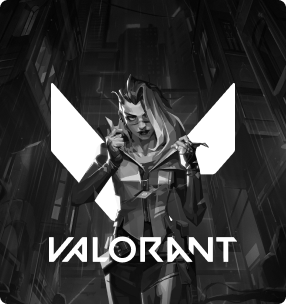
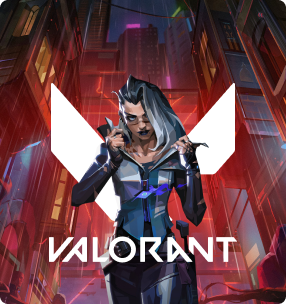
add grayscale on slider img

diff --git a/index.html b/index.html
@@ -158,7 +158,18 @@
                     <img src="./assets/image/png/coming-soon-img.png" alt="coming-soon-img"
                         class="position-absolute coming-soon-img">
                     <div class="d-flex align-items-center gap-12 mt-4">
-                        <img src="./assets/image/svg/valorant-svg.svg" alt="valorant-svg">
+                        <svg class="section-2-svg" width="40" height="40" viewBox="0 0 40 40" fill="none"
+                            xmlns="http://www.w3.org/2000/svg">
+                            <path
+                                d="M0 8C0 3.58172 3.58172 0 8 0H32C36.4183 0 40 3.58172 40 8V32C40 36.4183 36.4183 40 32 40H8C3.58172 40 0 36.4183 0 32V8Z"
+                                fill="black" />
+                            <path
+                                d="M7.28103 10.4234C7.43861 10.3376 7.53903 10.5109 7.62404 10.6022C13.0938 16.8496 18.5701 23.0924 24.0394 29.3398C24.1518 29.4288 24.0668 29.6189 23.9151 29.5985C21.2963 29.6012 18.677 29.5994 16.0582 29.5994C15.8484 29.6017 15.6475 29.5064 15.5188 29.357C12.8015 26.2576 10.0858 23.1569 7.36852 20.057C7.25319 19.9317 7.19353 19.7697 7.20099 19.6068C7.20099 16.6122 7.20199 13.6172 7.2 10.6226C7.20149 10.5518 7.19851 10.4601 7.28103 10.4234Z"
+                                fill="#CC3944" />
+                            <path
+                                d="M32.5784 10.4088C32.6903 10.3702 32.8136 10.4647 32.7972 10.5718C32.8011 13.5677 32.7967 16.5636 32.7991 19.5596C32.8066 19.7293 32.7658 19.9049 32.645 20.0384C31.8193 20.9815 30.9926 21.9242 30.1669 22.8668C30.0292 23.0302 29.804 23.1205 29.5788 23.1101C26.9774 23.1078 24.3755 23.1115 21.774 23.1083C21.6204 23.1301 21.5329 22.9408 21.6463 22.8496C25.2539 18.729 28.8644 14.6098 32.474 10.4901C32.5014 10.4547 32.5362 10.4274 32.5784 10.4088Z"
+                                fill="#CC3944" />
+                        </svg>
                         <p class="font-primary fw-bold fs-6 lh-16 text-white mb-0">VALORANT</p>
                     </div>
                 </div>
@@ -174,20 +185,40 @@
                     </div>
                 </div>
                 <div class="card-1">
-                    <img src="./assets/image/png/slider-img-3.png" alt="slider-img-3" class="w-100 slider-img">
-                    <img src="./assets/image/png/coming-soon-img.png" alt="coming-soon-img"
-                        class="position-absolute coming-soon-img">
+                    <div class="img-parent">
+                        <img src="./assets/image/png/slider-img-3.png" alt="slider-img-3" class="w-100 slider-img">
+                        <img src="./assets/image/png/coming-soon-img.png" alt="coming-soon-img"
+                            class="position-absolute coming-soon-img">
+                    </div>
                     <div class="d-flex align-items-center gap-12 mt-4">
-                        <img src="./assets/image/svg/fortnite-svg.svg" alt="fortnite-svg">
+                        <svg class="section-2-svg" width="40" height="40" viewBox="0 0 40 40" fill="none"
+                            xmlns="http://www.w3.org/2000/svg">
+                            <path
+                                d="M0 8C0 3.58172 3.58172 0 8 0H32C36.4183 0 40 3.58172 40 8V32C40 36.4183 36.4183 40 32 40H8C3.58172 40 0 36.4183 0 32V8Z"
+                                fill="#312151" />
+                            <path
+                                d="M19.4953 7.19995C19.5445 7.22757 19.5981 7.21679 19.6499 7.21679C20.7192 7.21731 21.7884 7.21389 22.8576 7.21836C23.4181 7.22073 23.9789 7.2423 24.5394 7.2444C24.8677 7.24572 25.1957 7.2231 25.5239 7.21705C25.7191 7.21337 25.7465 7.23809 25.7309 7.42563C25.6886 7.9417 25.7249 8.45855 25.7041 8.97462C25.6536 10.2309 25.6852 11.4874 25.6747 12.7439C25.6741 12.8004 25.6676 12.8572 25.6597 12.9135C25.6494 12.9879 25.6021 13.0198 25.5297 13.0106C25.1157 12.9582 24.6991 12.9672 24.2837 12.9669C23.4557 12.9661 22.6277 12.9808 21.7999 12.9922C21.5853 12.995 21.3709 13.0074 21.1566 13.0182C20.9824 13.0271 20.9682 13.0424 20.9682 13.2102C20.968 14.3925 20.9677 15.5749 20.9682 16.7569C20.9682 16.9621 20.9748 16.9631 21.1858 16.9673C21.8825 16.9813 22.5793 16.9579 23.2745 16.9308C23.6801 16.915 24.0886 16.9221 24.4929 16.8684C24.5678 16.8584 24.5989 16.8932 24.5999 16.9634C24.601 17.0378 24.6015 17.1123 24.6018 17.1867C24.602 17.7735 24.6018 18.3601 24.6028 18.9469C24.6041 19.8312 24.5092 20.7124 24.5173 21.5972C24.5189 21.7724 24.5202 21.9465 24.5439 22.1209C24.5702 22.3161 24.5147 22.3621 24.325 22.3482C23.9976 22.3237 23.6704 22.3042 23.341 22.3297C23.1233 22.3466 22.9039 22.3342 22.6845 22.325C22.2773 22.3077 21.8704 22.3313 21.4638 22.3555C21.3896 22.36 21.3147 22.3708 21.241 22.3658C21.1382 22.3589 21.1037 22.3966 21.1042 22.5007C21.1069 23.0042 21.0874 23.5084 21.104 24.0113C21.1395 25.0837 21.1034 26.1568 21.1379 27.2287C21.165 28.0738 21.13 28.9189 21.1653 29.763C21.1876 30.2964 21.1539 30.8309 21.2073 31.3635C21.2273 31.5629 21.1845 31.6132 20.9759 31.6573C19.46 31.9782 17.9437 32.297 16.4278 32.6169C16.1795 32.6692 15.9307 32.7205 15.6837 32.7784C15.4614 32.8305 15.4128 32.7979 15.4128 32.5732C15.4117 31.3078 15.4286 30.0421 15.4065 28.7769C15.3731 26.8591 15.4175 24.9411 15.3794 23.0239C15.3604 22.078 15.3888 21.1322 15.3538 20.1874C15.3228 19.3509 15.3588 18.5147 15.3299 17.6791C15.2984 16.773 15.3328 15.8663 15.3005 14.9609C15.276 14.2778 15.3068 13.5948 15.277 12.9127C15.2471 12.2209 15.2805 11.5289 15.2486 10.8385C15.2205 10.2256 15.2536 9.61194 15.2205 9.00066C15.1929 8.48354 15.211 7.96826 15.2008 7.45246C15.1966 7.22941 15.2005 7.22967 15.4217 7.21494C15.4475 7.2131 15.473 7.20521 15.4985 7.19995H19.4953Z"
+                                fill="white" />
+                        </svg>
                         <p class="font-primary fw-bold fs-6 lh-16 text-white mb-0">FORTNITE</p>
                     </div>
                 </div>
                 <div class="card-1">
-                    <img src="./assets/image/png/slider-img-4.png" alt="slider-img-4" class="w-100 slider-img">
-                    <img src="./assets/image/png/coming-soon-img.png" alt="coming-soon-img"
-                        class="position-absolute coming-soon-img">
+                    <div class="img-parent">
+                        <img src="./assets/image/png/slider-img-4.png" alt="slider-img-4" class="w-100 slider-img">
+                        <img src="./assets/image/png/coming-soon-img.png" alt="coming-soon-img"
+                            class="position-absolute coming-soon-img">
+                    </div>
                     <div class="d-flex align-items-center gap-12 mt-4">
-                        <img src="./assets/image/svg/rocket-league.svg" alt="rocket-league.svg">
+                        <svg class="section-2-svg" width="40" height="40" viewBox="0 0 40 40" fill="none"
+                            xmlns="http://www.w3.org/2000/svg">
+                            <path
+                                d="M0 8C0 3.58172 3.58172 0 8 0H32C36.4183 0 40 3.58172 40 8V32C40 36.4183 36.4183 40 32 40H8C3.58172 40 0 36.4183 0 32V8Z"
+                                fill="#536CEA" />
+                            <path
+                                d="M19.068 18.3411C19.068 18.3411 19.7405 18.392 20.3096 19.1049L19.9992 19.1558L19.844 19.1049C19.844 19.1049 19.3784 18.5447 19.068 18.3411ZM18.0333 21.4981L17.7229 20.7343H17.6194L17.1021 21.3453C17.4642 21.6508 18.0333 21.4981 18.0333 21.4981ZM22.7928 17.0172L22.5341 17.119L22.8445 17.6791L23.8792 18.0356C23.4653 17.1699 22.7928 17.0172 22.7928 17.0172ZM19.844 18.0865C20.1544 18.4429 20.4648 18.9521 20.4648 18.9521C20.9821 18.4429 22.0685 18.2392 23.4653 18.2902C21.4994 17.8828 19.844 18.0865 19.844 18.0865ZM17.9298 17.3227C17.9298 17.3227 18.4989 17.3227 19.2749 17.4754C18.7576 17.119 17.9298 16.9153 17.9298 16.9153V17.3227ZM22.6893 20.1232L21.8098 20.887L22.4824 21.0907L23.1549 20.3778L22.7928 20.2251L22.6893 20.1232ZM16.8434 16.1006C16.8434 16.1006 17.2056 16.3043 17.2573 16.3043C17.309 16.3043 18.0333 16.5589 18.3437 16.6607C18.6024 16.7626 18.7576 16.6607 18.8093 16.6607C18.861 16.6607 19.7405 16.1516 19.7405 16.1516C18.9645 15.846 18.2402 15.6424 18.2402 15.6424C18.1885 15.6424 16.8434 16.1006 16.8434 16.1006ZM22.1202 16.5589C22.0685 16.4571 21.965 16.4571 21.3442 16.3552C20.7752 16.3043 20.2578 16.2534 20.1544 16.2534C20.0509 16.2534 19.9992 16.3043 19.9992 16.3043C19.9992 16.3043 19.6888 16.508 19.4301 16.6607C19.1714 16.8135 19.1197 16.8644 19.068 16.9663C19.0162 17.0172 19.1714 17.2209 19.1714 17.2209L19.5853 17.73C19.637 17.73 19.7922 17.8319 19.7922 17.8319C19.7922 17.8319 20.62 17.781 21.1373 17.73H22.4824C22.5341 17.73 22.4824 17.5264 22.3789 17.2718C22.2754 17.0681 22.1202 16.5589 22.1202 16.5589ZM17.2056 17.119C17.2056 17.119 17.2573 17.119 17.3608 17.1699C17.4642 17.1699 17.516 17.0681 17.516 16.9663C17.516 16.8135 17.3608 16.7626 17.3608 16.7626H17.2573L17.1021 16.8135L17.0503 17.1699H17.1021L17.2056 17.119C17.1538 17.0172 17.1538 16.9663 17.1538 16.8644C17.1538 16.8135 17.2573 16.7117 17.309 16.7117C17.309 16.7117 17.4125 16.7117 17.3608 16.9153C17.3608 17.119 17.2056 17.119 17.2056 17.119ZM25.9485 21.1416L25.5347 21.7017V21.7526H26.1037C26.2072 21.3962 25.9485 21.1416 25.9485 21.1416ZM15.6018 18.4938H15.4983L15.2397 18.4429C14.981 18.392 15.0845 17.9337 15.0845 17.9337L14.7741 18.0356C14.6706 17.8319 14.205 17.2718 14.205 17.2718L14.1015 17.6791C14.1533 17.73 14.4119 18.1374 14.4637 18.2392L14.3085 18.392C14.3085 18.392 14.2567 18.4938 14.2567 18.5447C14.2567 18.5957 14.205 18.6466 14.205 18.6466L13.9981 18.7484H13.9463L13.2221 18.1883V18.5957H13.2738C13.3255 18.6975 13.429 18.9012 13.6877 19.003C13.8946 19.1049 14.1533 19.1049 14.2567 19.0539C14.3602 19.1049 14.4119 19.1049 14.4637 19.1558C14.6706 19.2576 14.7223 19.2067 14.7223 19.2067L15.0327 19.1049H15.0845L15.1362 19.0539L15.2397 18.8503C15.2397 18.8503 15.757 18.9012 15.9639 18.9012C16.1709 18.5957 16.8434 18.1374 17.309 18.0865C17.7746 18.0865 18.5506 18.1883 19.1714 18.7993C19.7405 19.4104 19.5853 20.2251 19.5853 20.2251L20.7234 20.5815L20.2061 20.2251C19.7922 19.2067 18.8093 18.2902 18.8093 18.2902C18.8093 18.2902 18.5506 18.2392 18.3954 18.2392C18.2402 18.1883 18.1368 18.0865 18.1368 18.0865C18.1368 18.0865 18.085 18.0356 17.9816 17.8828L17.8781 17.6791C17.8781 17.6791 17.7746 17.5773 17.6194 17.4754C17.4642 17.3736 16.8951 17.3227 16.5847 17.2718C16.2743 17.2209 16.2743 17.2718 16.2743 17.2718C17.1538 17.4754 17.4125 17.5264 17.4642 17.5773C17.4642 17.5773 17.516 17.6791 17.5677 17.73C16.8434 17.5773 16.1709 17.6791 16.0157 17.73C16.1191 17.8828 16.1191 18.0865 16.0157 18.2392C15.9122 18.3411 15.6018 18.4938 15.6018 18.4938ZM25.4312 22.16L25.5864 22.8219C25.5864 22.8219 25.7416 22.6692 25.8968 22.4655C26.052 22.2618 26.1037 22.0582 26.1037 22.0582L25.4829 22.1091L25.4312 22.16ZM12.9634 17.5264L12.9117 18.0865H13.2221L13.2738 17.73V17.9337H13.3255V17.6282H13.2738V17.4245L13.7394 17.6791L13.7911 17.781L13.8946 17.8828H13.9981L14.0498 17.8319V17.781C13.7394 17.781 13.7394 17.6282 13.7394 17.6282C13.7394 17.6282 13.7911 17.2718 13.8429 17.1699C13.8946 17.0681 14.1015 17.119 14.1015 17.119L14.0498 17.0681H13.9463C13.8429 17.0172 13.5325 16.8135 13.429 16.7626V16.7117L13.4807 16.6607V16.4571H13.5325C13.5325 16.4062 13.5842 16.4062 13.5842 16.3552C13.6877 16.3552 14.4637 16.2025 14.4637 16.2025L13.7394 16.0497V15.9988C13.5325 15.9479 13.3773 15.897 13.2738 15.846C13.0151 16.1516 12.9117 16.5589 12.9117 16.5589C12.9117 16.5589 12.8599 17.2718 12.8599 17.3736C12.8082 17.4754 12.9634 17.5264 12.9634 17.5264ZM25.1208 21.549L25.2243 21.7017L25.276 21.6508L25.6899 21.1416V21.0907C25.4829 21.0907 25.1208 21.549 25.1208 21.549ZM23.8792 20.6324L23.5688 20.5306L22.8445 21.3453L23.3619 21.4981C23.4653 21.0907 23.8792 20.6324 23.8792 20.6324ZM24.9656 21.8036C24.7069 22.3128 24.7587 22.6692 24.7587 22.6692L25.0173 22.1091V22.0072C25.0691 22.0072 25.0173 21.9054 24.9656 21.8036ZM24.7069 18.4938C24.7069 18.4938 24.6035 18.6975 24.5517 18.7484C24.5 18.7993 24.1379 18.8503 23.9309 18.9012C23.724 19.003 23.3619 19.1558 23.2584 19.2576C23.2067 19.3085 23.2067 19.4613 23.2067 19.5122C23.2067 19.5122 23.3101 19.5631 23.3619 19.5631L22.8963 19.9705L22.9997 20.0723L24.1379 20.4288C24.3965 20.2251 24.7587 20.1742 24.7587 20.1742C24.5517 20.0723 23.6723 19.7159 23.4136 19.614C23.4136 19.614 23.2584 19.5631 23.2584 19.5122V19.3595C23.2584 19.3595 23.9309 18.8503 24.9656 18.8503L25.1208 18.5447L24.7069 18.4938ZM25.3795 22.9747L25.1725 22.3637H25.1208L24.8104 22.9238L24.8621 22.9747C25.1208 23.0765 25.3795 22.9747 25.3795 22.9747ZM17.5677 17.1699L17.7229 17.2209C17.7229 17.2209 17.8264 17.2209 17.8264 17.119V16.9153L17.6712 16.8135L17.4642 16.7626C17.516 16.8135 17.516 16.8644 17.516 16.8644H17.5677C17.5677 16.8135 17.6194 16.8135 17.6194 16.8644C17.6194 16.8644 17.7229 16.9153 17.6712 17.0681C17.7229 17.119 17.6194 17.1699 17.5677 17.1699ZM17.1021 19.9705C16.7399 20.6324 16.9986 21.0907 16.9986 21.0907L17.4642 20.4288V20.3269L17.1021 19.9705ZM13.7394 16.0497L14.3602 16.2025C14.4119 16.2025 14.7741 16.1516 14.7741 16.1516L13.7911 15.897L13.7394 16.0497ZM14.1015 15.897C14.9293 15.9988 15.0845 16.1516 15.0845 16.1516C15.0845 16.1516 15.3949 16.1006 15.5501 16.1006C15.2914 15.897 14.1533 15.5405 14.1533 15.5405C14.1533 15.5405 14.1015 15.6933 14.1015 15.897ZM15.3431 17.4754C15.1879 17.5773 15.0327 17.8828 15.0845 18.1374C15.1362 18.392 15.1879 18.392 15.3431 18.392C15.0845 18.2902 15.1362 17.8828 15.3431 17.6282C15.4983 17.4245 15.6535 17.5773 15.6535 17.5773C15.6535 17.5773 15.4983 17.3736 15.3431 17.4754ZM11.67 25.0115C10.9975 25.0115 10.2215 25.2661 10.6871 25.9789C14.5154 32.4456 18.5506 33.9732 20.2578 34.7879C21.0338 34.4315 22.2755 33.8714 23.7757 32.853C24.6552 32.2929 24.5517 31.4273 24.3448 30.8672C23.2584 28.2194 17.309 25.2151 11.67 25.0115ZM33.243 12.9437C31.691 11.8744 27.8627 9.93943 20.2578 9.93943C17.6194 9.93943 15.3949 10.194 13.6359 10.5505C14.0498 11.2124 14.2567 11.9762 14.2567 12.7909C14.2567 13.9111 13.8429 14.9295 13.1703 15.6933C13.3255 15.7442 13.5325 15.7951 13.7911 15.846L13.8946 15.5914C13.8946 15.5914 13.9981 15.5914 14.0498 15.6424C14.0498 15.3878 14.205 15.3878 14.205 15.3878C14.205 15.3878 14.205 15.3369 14.2567 15.3369C14.5154 15.3878 15.2397 15.7442 15.5501 15.897C15.8605 16.0497 15.8605 16.1006 15.8605 16.1006C15.8605 16.1006 16.5847 16.1006 16.7917 16.0497C16.9986 16.0497 17.3608 15.897 17.8781 15.7442C18.3954 15.5914 18.4989 15.5405 18.6024 15.5405C18.7058 15.5405 19.637 15.5914 20.4648 15.6933C21.2925 15.7951 22.0685 16.1006 22.2237 16.2025L22.4824 16.2534L22.5341 16.1006L22.1202 15.9479C22.1202 15.9479 22.172 15.6933 22.172 15.6424C22.172 15.5914 22.2237 15.5405 22.2754 15.5405C22.3272 15.5405 22.7928 15.6424 22.948 15.6933C23.1032 15.7442 23.6205 16.1006 23.6723 16.1006C23.724 16.1006 23.724 16.1516 23.724 16.1516C23.724 16.2534 23.6205 16.4571 23.6205 16.4571C23.6205 16.4571 23.7757 16.508 23.8275 16.5589C23.8792 16.6098 24.0344 16.7117 24.1896 16.8644C24.3448 16.9663 24.2931 17.119 24.2931 17.119L24.6552 17.4754V17.6282L25.5347 18.4938V18.5447L25.1208 18.7993C25.1208 18.7993 25.6899 18.7484 26.1037 18.9521C26.5176 19.1558 26.5693 19.2576 26.5693 19.3595C26.4659 19.4104 26.3107 19.4613 26.3107 19.4613C26.0003 19.5631 25.2243 20.0723 25.2243 20.0723V20.1232L25.6381 20.2251C26.1037 19.8177 26.9315 19.665 27.5523 19.7668C29.6734 20.1742 31.1219 21.549 31.4323 22.7201C31.4323 22.771 31.484 22.8729 31.484 22.9238C33.6051 18.0356 33.3982 14.5221 33.243 12.9437ZM25.7933 20.3778C25.8451 20.4288 25.8968 20.4288 25.9485 20.4797C26.2589 20.6833 26.4141 20.7852 26.4659 21.2435C26.5176 21.5999 26.4141 22.1091 26.1555 22.5674C27.604 23.5348 29.6216 22.771 30.3976 23.5348C30.2424 21.5999 27.3454 19.665 25.7933 20.3778ZM13.8946 17.8828L13.7911 17.9337V18.3411L13.8946 18.2902V17.8828ZM28.8456 24.1968C27.7592 24.1968 26.6728 23.8403 25.8968 22.9238V22.9747C25.4312 23.5857 24.9139 23.5857 24.7069 23.5857C24.5 23.5857 23.8275 23.2802 23.5688 22.9747C23.3101 22.6692 23.3101 22.1091 23.3101 22.1091L22.2754 21.7526L20.9821 21.0398L20.7752 20.9889C20.3613 21.1925 19.844 21.0398 19.3784 20.6833C19.3266 20.887 19.068 21.3962 18.7576 21.6508C18.4472 21.9054 17.8264 22.2618 17.3608 22.2618C16.8951 22.2618 15.8605 21.7526 15.5501 21.0398C15.2397 20.3269 15.5501 19.5631 15.5501 19.5631L15.0327 19.4613L14.8258 19.2067C14.8258 19.2067 14.205 19.7159 13.5325 19.5122C12.8599 19.3085 12.2909 18.7484 12.1357 18.2392C12.0322 17.73 12.1874 17.2718 12.2391 17.2209C12.1357 16.8644 12.1357 16.6607 12.1357 16.6607H12.0839V16.508C11.4114 16.9663 10.6354 17.1699 9.80764 17.1699C8.87643 17.1699 7.99696 16.8644 7.27269 16.4062C7.37615 17.5264 7.68656 18.8503 8.10043 20.3269C8.6695 22.3637 10.5319 23.0256 13.3255 23.4839C19.4818 24.4514 25.3795 29.085 24.9656 31.9365C26.5176 30.6635 28.1731 28.7795 29.8286 25.9789C30.5011 24.9096 29.8803 24.1968 28.8456 24.1968ZM12.3943 17.1699L12.3426 17.73H12.7047V17.6791H12.653V17.6282H12.6013L12.653 17.5264L12.7047 17.2718L12.653 17.2209V17.119L12.7047 17.0681L12.7565 16.4571L12.4978 16.3043C12.6013 15.897 12.8599 15.5405 12.8599 15.5405H12.7047C12.4461 15.846 12.3426 16.2534 12.3426 16.2534C12.3426 16.2534 12.2909 16.9153 12.2909 17.0172C12.2909 17.1699 12.3943 17.1699 12.3943 17.1699ZM18.085 20.5815L18.3437 21.3962C18.861 21.0398 18.9645 20.4797 18.9645 20.4797L18.1368 20.5306L18.085 20.5815ZM18.5506 19.3085L18.1368 20.0214L18.1885 20.0723L19.0162 20.1232C19.0162 19.5631 18.5506 19.3085 18.5506 19.3085ZM13.3773 17.73L13.3255 18.0356H13.3773V17.73ZM17.309 19.665L17.7229 19.9705L17.8264 19.9196L18.292 19.2067C17.7229 19.1558 17.309 19.665 17.309 19.665ZM13.4807 17.781L13.429 17.73V18.0865H13.4807V17.781ZM13.6359 17.8828L13.5842 18.2392H13.6359V17.8828ZM13.7394 17.9337L13.6877 18.2902H13.7394V17.9337ZM13.5325 17.8319V18.1883H13.4807L13.5325 17.8319ZM23.811 16.1819H23.8445L24.1982 16.3397H24.3864C24.9425 16.5494 25.2305 16.6591 25.2505 16.669C25.2704 16.6788 25.3227 16.7323 25.4072 16.8294L26.1818 17.174L26.1541 17.28L26.1401 17.3837C25.7763 17.2081 25.5897 17.1276 25.5804 17.1423C25.5712 17.157 25.5613 17.2029 25.5507 17.28L24.9949 17.9192L24.979 18H24.9362L24.6512 17.7349V17.6535L24.9189 17.6282L25.4072 17.1423C25.4291 17.0991 25.437 17.0713 25.431 17.0588C25.4219 17.0401 25.0572 16.8881 25.0224 16.8569C24.9991 16.8361 24.9704 16.7983 24.9362 16.7435C24.5202 16.5826 24.298 16.4968 24.2695 16.486C24.241 16.4751 24.1861 16.4701 24.1047 16.4707C24.0861 16.5022 24.0753 16.5208 24.0725 16.5264C24.0697 16.5321 24.0248 16.5886 23.9376 16.6962L23.8445 16.669C23.8265 16.6326 23.8265 16.6139 23.8445 16.6128C23.8626 16.6117 23.9093 16.5503 23.9847 16.4288L23.7575 16.3397L23.811 16.1819ZM26.2844 17.1516C26.9901 17.1538 27.3661 17.1538 27.4125 17.1516C27.4821 17.1484 28.0276 17.2681 28.0305 17.2798C28.0324 17.2877 28.0424 17.3086 28.0606 17.3427L27.5109 17.7576C27.3574 17.7515 27.2491 17.7284 27.1858 17.6882C27.0908 17.628 26.7616 17.5334 26.6803 17.5054C26.6261 17.4868 26.481 17.4568 26.2449 17.4155C26.2415 17.3134 26.2415 17.2524 26.2449 17.2325C26.2482 17.2125 26.2614 17.1856 26.2844 17.1516ZM9.99996 16C8.15901 16 6.66663 14.5077 6.66663 12.6667C6.66663 10.8258 8.15901 9.33337 9.99996 9.33337C11.8409 9.33337 13.3333 10.8258 13.3333 12.6667C13.3333 14.5077 11.8409 16 9.99996 16Z"
+                                fill="white" />
+                        </svg>
                         <p class="font-primary fw-bold fs-6 lh-16 text-white mb-0">ROCKET LEAGUE</p>
                     </div>
                 </div>
@@ -209,10 +240,10 @@
                 <img src="./assets/image/png/section-3-line-img.png" alt="section-3-line-img">
             </div>
             <div class="d-flex justify-content-center align-items-center mt-5">
-                    <iframe class="video" src="https://www.youtube.com/embed/4WjtQjPQGIs?si=qmyCen1aVWJ5ow5W"
-                        title="YouTube video player"
-                        allow="accelerometer; autoplay; clipboard-write; encrypted-media; gyroscope; picture-in-picture; web-share"
-                        referrerpolicy="strict-origin-when-cross-origin" allowfullscreen></iframe>
+                <iframe class="video" src="https://www.youtube.com/embed/4WjtQjPQGIs?si=qmyCen1aVWJ5ow5W"
+                    title="YouTube video player"
+                    allow="accelerometer; autoplay; clipboard-write; encrypted-media; gyroscope; picture-in-picture; web-share"
+                    referrerpolicy="strict-origin-when-cross-origin" allowfullscreen></iframe>
             </div>
             <div class="d-flex justify-content-center mt-5 mb-103">
                 <button class="compete-btn font-family-primary fw-medium lh-16 fs-6 text-black bg-lime-yellow">COMPETE

diff --git a/assets/css/style.css b/assets/css/style.css
@@ -323,6 +323,7 @@
     background: var(--Colors-Neutrals-Neutral-800, var(--bg-ruined-smores));
     border: 1px solid var(--Colors-Neutrals-Neutral-700, var(--bg-river-styx));
     backdrop-filter: blur(40px);
+    filter: grayscale(100%);
 }
 
 .slick-track {
@@ -339,6 +340,32 @@
     width: 286px !important;
     height: 304px !important;
     width: 100% !important;
+}
+
+.card-1:hover {
+    filter: grayscale(0%);
+    cursor: pointer;
+}
+
+.card-1:hover .coming-soon-img {
+    display: none;
+}
+
+.slider-img,
+.section-2-svg {
+    filter: grayscale();
+}
+
+.card-1:hover .slider-img {
+    filter: none;
+}
+
+.card-1:hover .section-2-svg {
+    filter: none;
+}
+
+.card-1:hover .coming-soon-img {
+    display: none;
 }
 
 /***** section-3 *****/
